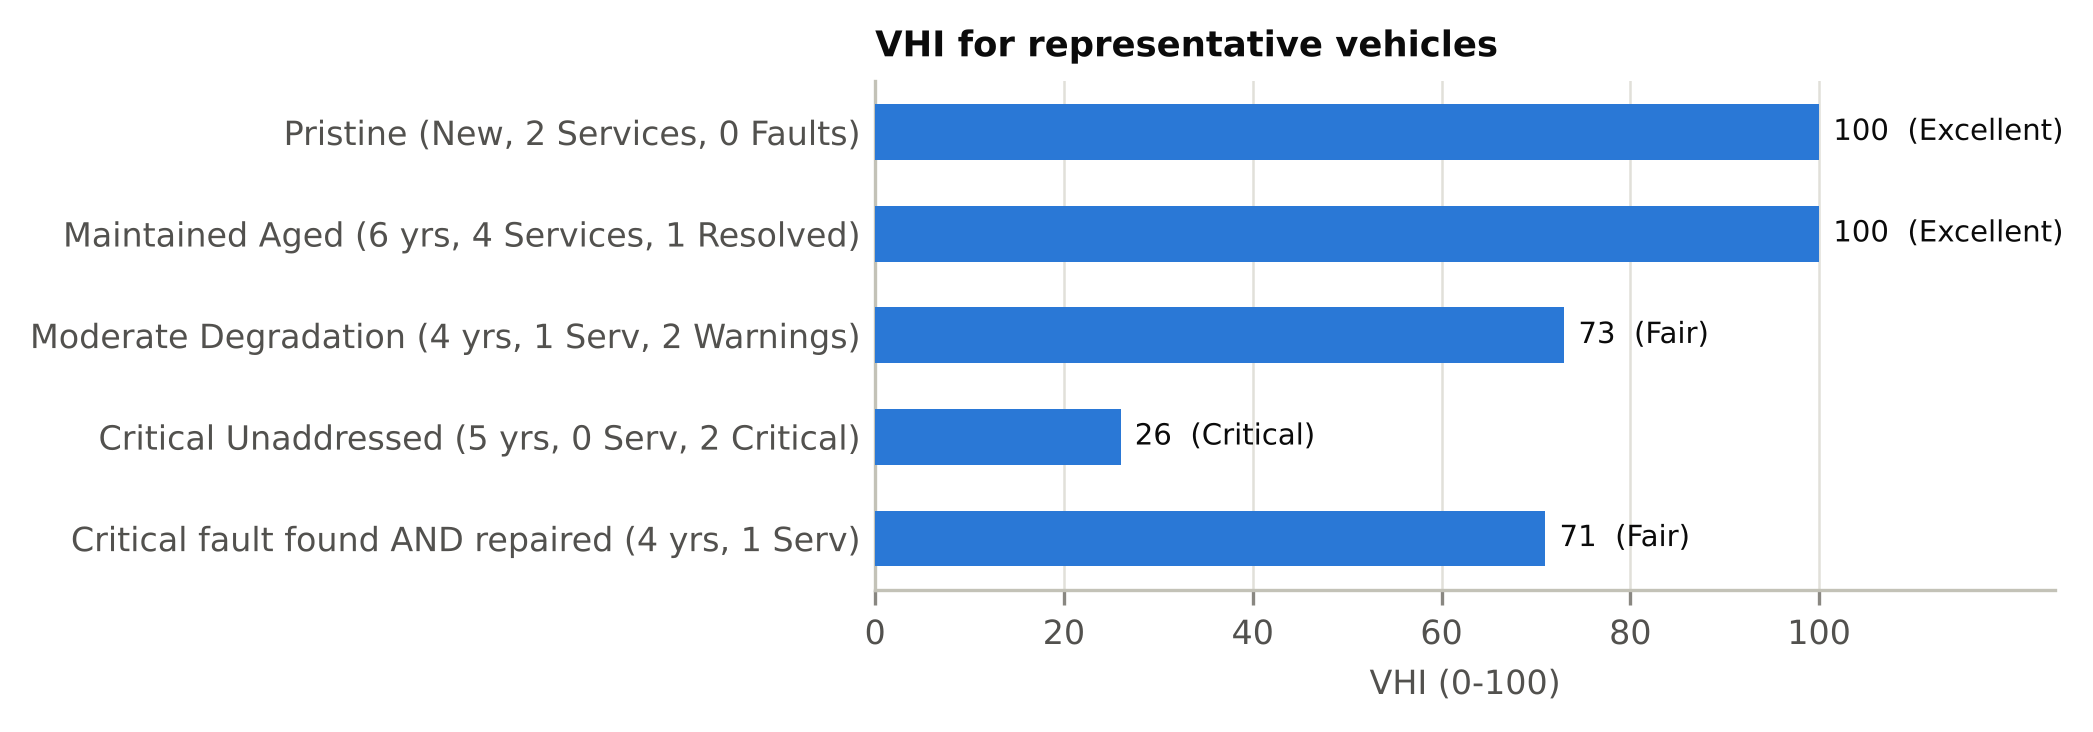
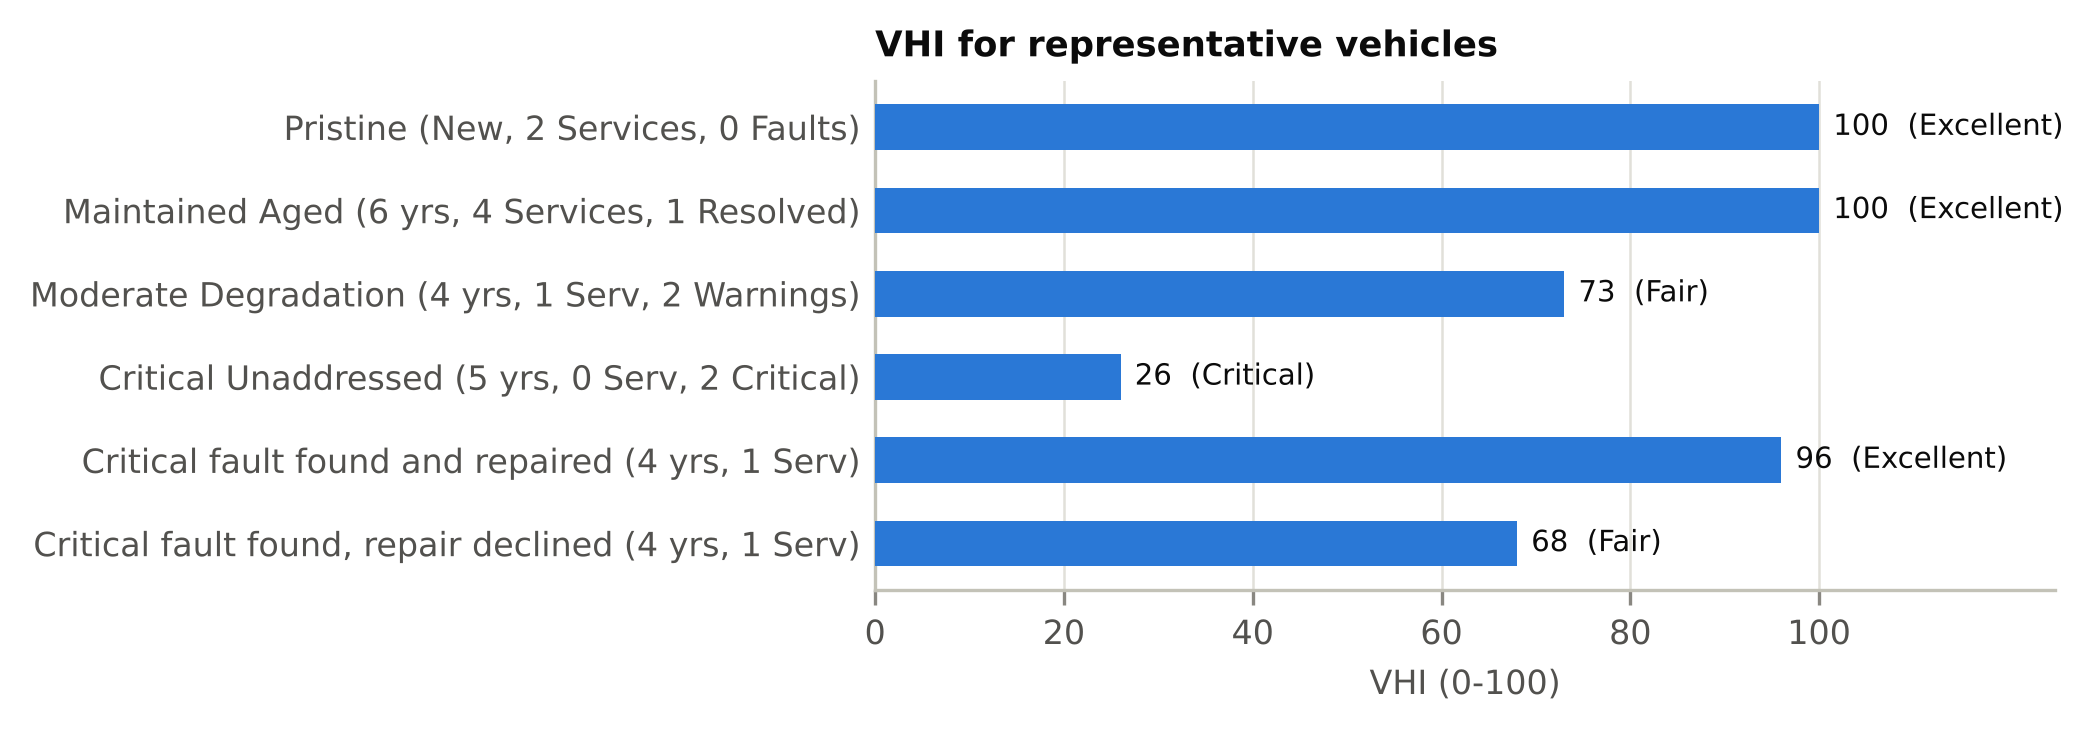
Stop counting repaired faults against the health score; add audit tests
- Inspection findings no longer lower the VHI once their booking is
  completed with an approved repair; declined or unfinished repairs
  still count.
- Research script, Figure 2 and README updated to the corrected formula
  (repaired vs declined critical fault).
- Regression tests for every audit fix (8 new tests, all failing on the
  previous code); existing tests updated where they relied on now-
  forbidden behavior (unauthenticated distance calls, managers with no
  center).

Claude-Session: https://claude.ai/code/session_01TNxeACpgSJCQt8XVLcCKvq

Changed region(s): [[0.0, 0.1503, 0.9938, 0.6612], [0.0, 0.7213, 0.4037, 0.7814], [0.4037, 0.6913, 0.8075, 0.7814]]

diff --git a/backend/api/tests.py b/backend/api/tests.py
@@ -264,9 +264,11 @@ class Phase4ServiceBookingTests(TestCase):
         self.assertIn("pickup_longitude", res.data)
 
     def test_calculate_distance_api(self):
-        res = self.client.get(
-            "/api/location/distance/?origin_lat=12.9784&origin_lng=77.6408&dest_lat=12.9352&dest_lng=77.6245"
-        )
+        url = "/api/location/distance/?origin_lat=12.9784&origin_lng=77.6408&dest_lat=12.9352&dest_lng=77.6245"
+        # Requires login, since it can call the paid Google Distance Matrix API
+        self.assertEqual(self.client.get(url).status_code, status.HTTP_401_UNAUTHORIZED)
+        self.client.force_authenticate(user=self.user1)
+        res = self.client.get(url)
         self.assertEqual(res.status_code, status.HTTP_200_OK)
         self.assertIn("distance_km", res.data)
         self.assertIn("duration_minutes", res.data)
@@ -290,7 +292,14 @@ class Phase4ServiceBookingTests(TestCase):
             preferred_date="2026-10-10",
         )
 
+        # A manager not linked to any service center cannot manage bookings
         self.client.force_authenticate(user=manager)
+        unlinked = self.client.patch(f"/api/service-center/bookings/{booking.id}/", {"status": "Confirmed"}, format="json")
+        self.assertEqual(unlinked.status_code, status.HTTP_403_FORBIDDEN)
+        self.assertEqual(self.client.get("/api/service-center/bookings/").status_code, status.HTTP_403_FORBIDDEN)
+
+        self.service_center.user = manager
+        self.service_center.save()
         res = self.client.patch(
             f"/api/service-center/bookings/{booking.id}/",
             {"status": "Confirmed", "assigned_driver_id": driver.id, "assigned_mechanic_id": mechanic.id},
@@ -1390,3 +1399,132 @@ class DriverScopeTests(TestCase):
         self.job.status = BookingStatus.COMPLETED
         self.job.save()
         self.assertEqual(self.as_user(self.drv, f"{base}/location/", {"latitude": 12.9, "longitude": 77.6}).status_code, 400)
+
+
+class SecurityAuditTests(TestCase):
+    """Regression tests for the permission audit fixes."""
+
+    def setUp(self):
+        self.client = APIClient()
+        self.customer = User.objects.create_user(username="sa_cust", email="sa_cust@example.com", role=UserRole.CUSTOMER)
+        self.manager = User.objects.create_user(
+            username="sa_mgr", email="sa_mgr@example.com", role=UserRole.SERVICE_CENTER_MANAGER, is_staff=True
+        )
+        self.other_mgr = User.objects.create_user(
+            username="sa_mgr2", email="sa_mgr2@example.com", role=UserRole.SERVICE_CENTER_MANAGER
+        )
+        self.mechanic = User.objects.create_user(username="sa_mech", email="sa_mech@example.com", role=UserRole.MECHANIC)
+        brand = CarBrand.objects.create(name="Honda")
+        model = CarModel.objects.create(brand=brand, name="City")
+        self.vehicle = Vehicle.objects.create(
+            customer=self.customer, car_brand=brand, car_model=model, brand="Honda", model="City",
+            registration_number="KA01SA01", year=2024, fuel_type="Petrol",
+        )
+        self.st = ServiceType.objects.create(name="Full Service", base_price=4000, estimated_duration="5 hours")
+        self.center = ServiceCenter.objects.create(user=self.manager, name="SA Hub", address="Jayanagar", phone="+918000000005", email="sa@example.com")
+        self.other_center = ServiceCenter.objects.create(user=self.other_mgr, name="SA Hub 2", address="Hebbal", phone="+918000000006", email="sa2@example.com")
+        self.booking = ServiceBooking.objects.create(
+            customer=self.customer, vehicle=self.vehicle, service_type=self.st, service_center=self.center,
+            pickup_address="Jayanagar 4th Block", status=BookingStatus.PENDING,
+        )
+
+    def test_staff_flag_does_not_make_a_manager_an_admin(self):
+        self.client.force_authenticate(user=self.manager)  # is_staff=True
+        self.assertEqual(self.client.get("/api/admin/dashboard-stats/").status_code, status.HTTP_403_FORBIDDEN)
+        self.assertEqual(self.client.post("/api/car-brands/", {"name": "Hacked"}, format="json").status_code, status.HTTP_403_FORBIDDEN)
+        other = ServiceBooking.objects.create(
+            customer=self.customer, vehicle=self.vehicle, service_type=self.st, service_center=self.other_center, pickup_address="x",
+        )
+        ids = [b["id"] for b in self.client.get("/api/service-center/bookings/").data]
+        self.assertIn(self.booking.id, ids)
+        self.assertNotIn(other.id, ids)
+        res = self.client.patch(f"/api/service-center/bookings/{other.id}/", {"status": "Cancelled"}, format="json")
+        self.assertEqual(res.status_code, status.HTTP_403_FORBIDDEN)
+
+    def test_customer_can_only_edit_pickup_details_or_cancel(self):
+        self.client.force_authenticate(user=self.customer)
+        url = f"/api/bookings/{self.booking.id}/"
+        for body in ({"status": "Completed"}, {"handover_otp_verified": True}, {"estimated_cost": 1}, {"assigned_mechanic": self.mechanic.id}):
+            self.assertEqual(self.client.patch(url, body, format="json").status_code, status.HTTP_400_BAD_REQUEST, body)
+        self.assertEqual(self.client.patch(url, {"customer_notes": "Gate code 1234"}, format="json").status_code, 200)
+        self.booking.status = BookingStatus.IN_SERVICE
+        self.booking.save()
+        self.assertEqual(self.client.patch(url, {"status": "Cancelled"}, format="json").status_code, 400)
+        self.booking.refresh_from_db()
+        self.assertEqual(self.booking.status, BookingStatus.IN_SERVICE)
+
+    def test_booking_price_comes_from_the_package(self):
+        self.client.force_authenticate(user=self.customer)
+        res = self.client.post("/api/bookings/", {
+            "vehicle": self.vehicle.id, "service_type": self.st.id, "service_center": self.center.id,
+            "pickup_address": "Jayanagar", "estimated_cost": 1,
+        }, format="json")
+        self.assertEqual(res.status_code, status.HTTP_201_CREATED)
+        self.assertEqual(float(res.data["estimated_cost"]), 4000.0)
+
+    def test_repair_request_can_be_answered_once_at_the_workshop(self):
+        from api.models import RepairRequest
+
+        self.booking.status = "Repair Approval Required"
+        self.booking.estimated_cost = 4000
+        self.booking.save()
+        rr = RepairRequest.objects.create(booking=self.booking, mechanic=self.mechanic, issue_title="Pads", description="Worn", additional_cost=1500)
+        self.client.force_authenticate(user=self.customer)
+        self.assertEqual(self.client.post(f"/api/repair-requests/{rr.id}/approve/").status_code, 200)
+        self.assertEqual(self.client.post(f"/api/repair-requests/{rr.id}/approve/").status_code, status.HTTP_409_CONFLICT)
+        self.assertEqual(self.client.post(f"/api/repair-requests/{rr.id}/reject/").status_code, status.HTTP_409_CONFLICT)
+        self.booking.refresh_from_db()
+        self.assertEqual(float(self.booking.estimated_cost), 5500.0)
+
+        self.booking.status = BookingStatus.COMPLETED
+        self.booking.save()
+        late = RepairRequest.objects.create(booking=self.booking, mechanic=self.mechanic, issue_title="Late", description="x", additional_cost=999)
+        self.assertEqual(self.client.post(f"/api/repair-requests/{late.id}/approve/").status_code, 400)
+        self.booking.refresh_from_db()
+        self.assertEqual(self.booking.status, BookingStatus.COMPLETED)
+
+    def test_vehicle_with_service_history_cannot_be_deleted(self):
+        self.client.force_authenticate(user=self.customer)
+        self.assertEqual(self.client.delete(f"/api/vehicles/{self.vehicle.id}/").status_code, 400)
+        self.assertTrue(Vehicle.objects.filter(pk=self.vehicle.id).exists())
+        spare = Vehicle.objects.create(customer=self.customer, brand="Honda", model="Amaze", registration_number="KA01SA02", year=2020, fuel_type="Petrol")
+        self.assertEqual(self.client.delete(f"/api/vehicles/{spare.id}/").status_code, 200)
+
+    def test_manager_cannot_use_another_centers_staff(self):
+        from api.models import Employee
+
+        theirs = User.objects.create_user(username="sa_drv2", email="sa_drv2@example.com", role=UserRole.DRIVER)
+        Employee.objects.create(user=theirs, service_center=self.other_center, employee_type=Employee.EmployeeType.VALET)
+        pool = User.objects.create_user(username="sa_drv3", email="sa_drv3@example.com", role=UserRole.DRIVER)
+        self.client.force_authenticate(user=self.manager)
+        url = f"/api/service-center/bookings/{self.booking.id}/"
+        self.assertEqual(self.client.patch(url, {"assigned_driver_id": theirs.id}, format="json").status_code, 400)
+        self.assertEqual(self.client.patch(url, {"assigned_driver_id": pool.id}, format="json").status_code, 200)
+        staff = self.client.get("/api/service-center/employees/").data
+        driver_ids = [d["id"] for d in staff["drivers"]]
+        self.assertIn(pool.id, driver_ids)
+        self.assertNotIn(theirs.id, driver_ids)
+        self.assertEqual(self.client.patch(url, {"status": "Teleported"}, format="json").status_code, 400)
+
+    def test_manager_estimates_only_for_own_center_vehicles(self):
+        self.client.force_authenticate(user=self.other_mgr)
+        res = self.client.post("/api/repair-cost/estimate/", {"vehicle": self.vehicle.id, "issue_description": "noise"}, format="json")
+        self.assertEqual(res.status_code, status.HTTP_403_FORBIDDEN)
+        self.client.force_authenticate(user=self.manager)
+        res = self.client.post("/api/repair-cost/estimate/", {"vehicle": self.vehicle.id, "issue_description": "noise"}, format="json")
+        self.assertEqual(res.status_code, status.HTTP_200_OK)
+
+    def test_repaired_critical_fault_stops_lowering_health_score(self):
+        from api.models import RepairRequest, ServiceInspection
+        from api.health_service import recalculate_car_health_score
+
+        ServiceInspection.objects.create(booking=self.booking, mechanic=self.mechanic, issue_description="Brake failure", severity="CRITICAL")
+        self.booking.status = BookingStatus.IN_SERVICE
+        self.booking.save()
+        unfixed = recalculate_car_health_score(self.vehicle).score
+        RepairRequest.objects.create(booking=self.booking, mechanic=self.mechanic, issue_title="Brakes", description="Replace", additional_cost=3000, status="APPROVED")
+        self.booking.status = BookingStatus.COMPLETED
+        self.booking.save()
+        fixed = recalculate_car_health_score(self.vehicle).score
+        self.assertEqual(unfixed, 90 - 25)  # new car, no completed services yet, one open critical issue
+        self.assertEqual(fixed, 90 + 5 + 3)  # completed service + approved repair, fault resolved

diff --git a/backend/api/health_service.py b/backend/api/health_service.py
@@ -7,7 +7,8 @@ def recalculate_car_health_score(vehicle: Vehicle) -> CarHealthScore:
     """
     Computes a deterministic Car Health Score (0-100) based on:
     - Completed service history (+5 per service up to +15)
-    - Unresolved critical issues from inspections (-25 per critical issue)
+    - Unresolved critical issues from inspections (-25 per critical issue; fixed once the booking
+      is completed with an approved repair)
     - Unresolved high/warning severity issues (-10 per warning issue)
     - Resolved / approved repairs (+3 per resolved item)
     - Vehicle age deduction (-2 per year over 3 years old)
@@ -16,8 +17,10 @@ def recalculate_car_health_score(vehicle: Vehicle) -> CarHealthScore:
     completed_bookings = bookings.filter(status="Completed")
     service_count = completed_bookings.count()
 
-    # Inspections for this vehicle's bookings
-    inspections = ServiceInspection.objects.filter(booking__vehicle=vehicle)
+    # Inspection findings count until fixed: a finding on a completed booking whose repair the
+    # customer approved has been resolved, so it no longer lowers the score.
+    fixed_bookings = completed_bookings.filter(repair_requests__status=RepairRequestStatus.APPROVED)
+    inspections = ServiceInspection.objects.filter(booking__vehicle=vehicle).exclude(booking__in=fixed_bookings)
     critical_issues = inspections.filter(severity="CRITICAL").count()
     warning_issues = inspections.filter(severity="HIGH").count()
 

diff --git a/research_paper/make_figures.py b/research_paper/make_figures.py
@@ -123,8 +123,9 @@ def fig1_vhi_sensitivity():
 
 def fig2_vhi_scenarios():
     scenarios = dict(VHI_SCENARIOS)
-    # The app never clears an inspection finding, so a repaired critical fault keeps its -25 penalty.
-    scenarios["Critical fault found AND repaired (4 yrs, 1 Serv)"] = (1, 1, 0, 1, 4)
+    # A critical fault stops counting once its repair is approved and the service completed.
+    scenarios["Critical fault found and repaired (4 yrs, 1 Serv)"] = (1, 0, 0, 1, 4)
+    scenarios["Critical fault found, repair declined (4 yrs, 1 Serv)"] = (1, 1, 0, 0, 4)
     names = list(scenarios)[::-1]
     scores = [calculate_vhi(*scenarios[n]) for n in names]
 

diff --git a/research_paper/benchmark_simulation.py b/research_paper/benchmark_simulation.py
@@ -38,7 +38,11 @@ LABOR_HOURLY_RATE = 500.0
 
 
 def calculate_vhi(service_count, critical_issues, warning_issues, resolved_issues, age):
-    """Vehicle Health Index as implemented in the app (warning_issues there also includes pending repairs)."""
+    """Vehicle Health Index as implemented in the app.
+
+    critical_issues / warning_issues count UNRESOLVED findings: the app stops counting a finding once its
+    booking is completed with an approved repair. warning_issues also includes pending repair requests.
+    """
     base_score = 90
     service_bonus = min(service_count * 5, 15)
     resolved_bonus = min(resolved_issues * 3, 10)

diff --git a/research_paper/README.md b/research_paper/README.md
@@ -13,7 +13,7 @@ The VHI and cost formulas in `benchmark_simulation.py` mirror the app (`backend/
 | File | Shows | Safe to claim |
 |---|---|---|
 | `fig1_vhi_sensitivity` | VHI as one input varies (critical issues, open warnings, age, services) | How the index responds to each factor |
-| `fig2_vhi_scenarios` | VHI for representative vehicles | Example scores, including a repaired critical fault |
+| `fig2_vhi_scenarios` | VHI for representative vehicles | Example scores, including a critical fault that was repaired vs. declined |
 | `fig3_cost_model` | Point estimate vs base price for each severity | How the estimator scales; the customer sees 85-125% of it |
 | `fig4_synthetic_error` | MAPE and interval coverage vs the **assumed** noise level | That these metrics are set by the simulation's noise assumption |
 | `fig5_formula_latency` | Per-call time of the cost formula | Formula cost only (machine-dependent; varies run to run) |
@@ -24,5 +24,4 @@ Figures use colorblind-checked colors, and each line also has its own marker or 
 
 1. **The cost "accuracy" is not measured against real data.** Each simulated order's ground truth is the estimate multiplied by N(1, σ) with σ = 8%. MAPE ≈ σ·√(2/π) ≈ 6.4% and coverage ≈ 97% follow from that choice (Fig. 4), not from estimator quality. To report real accuracy, replace the synthetic ground truth with final invoice amounts for real repairs.
 2. **VHI saturates at 100.** A new car and a 6-year-old maintained car both score 100, so the index cannot rank healthy vehicles (Fig. 1, 2).
-3. **Inspection findings are never cleared.** A critical fault keeps its −25 penalty after it is repaired (+3 for the approved repair), so a repaired car stays "Fair" (Fig. 2).
-4. **Latency** covers the formula only, not the API, database or network.
+3. **Latency** covers the formula only, not the API, database or network.
